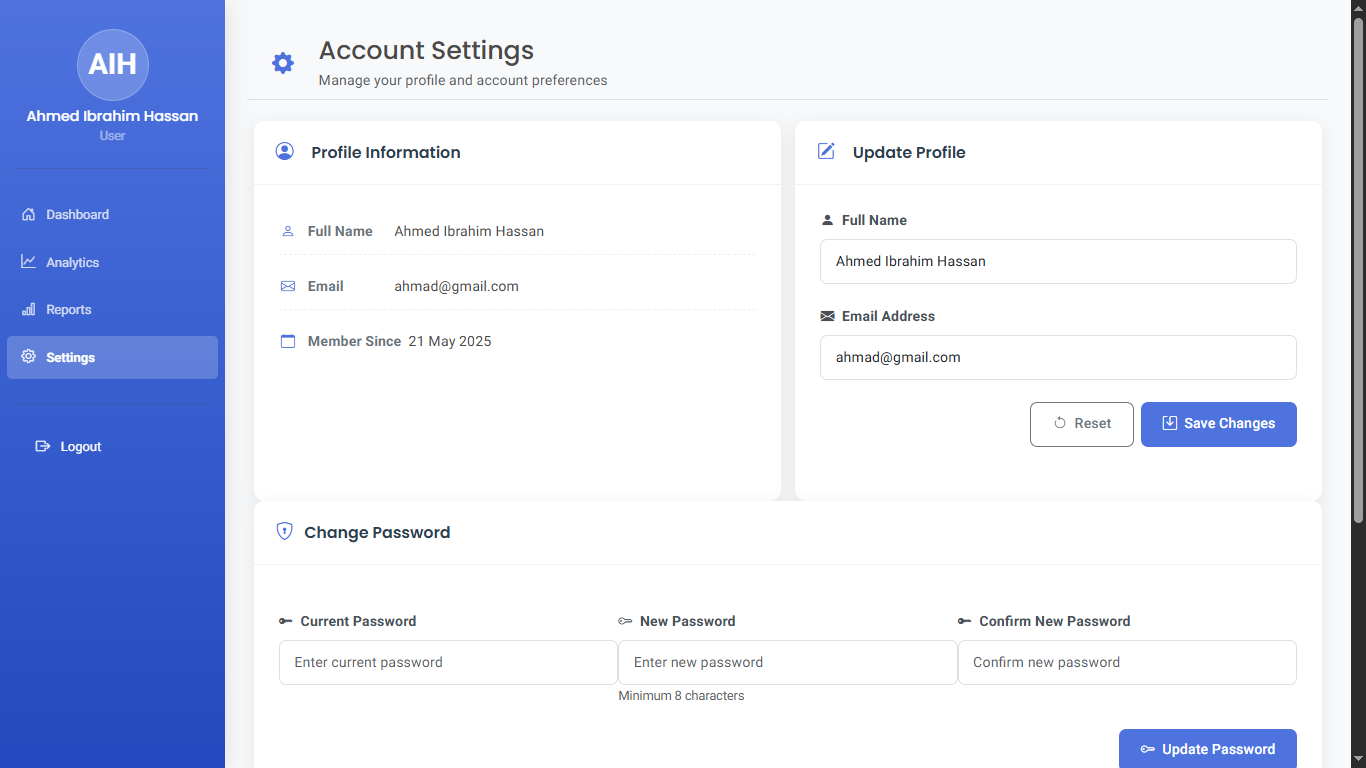
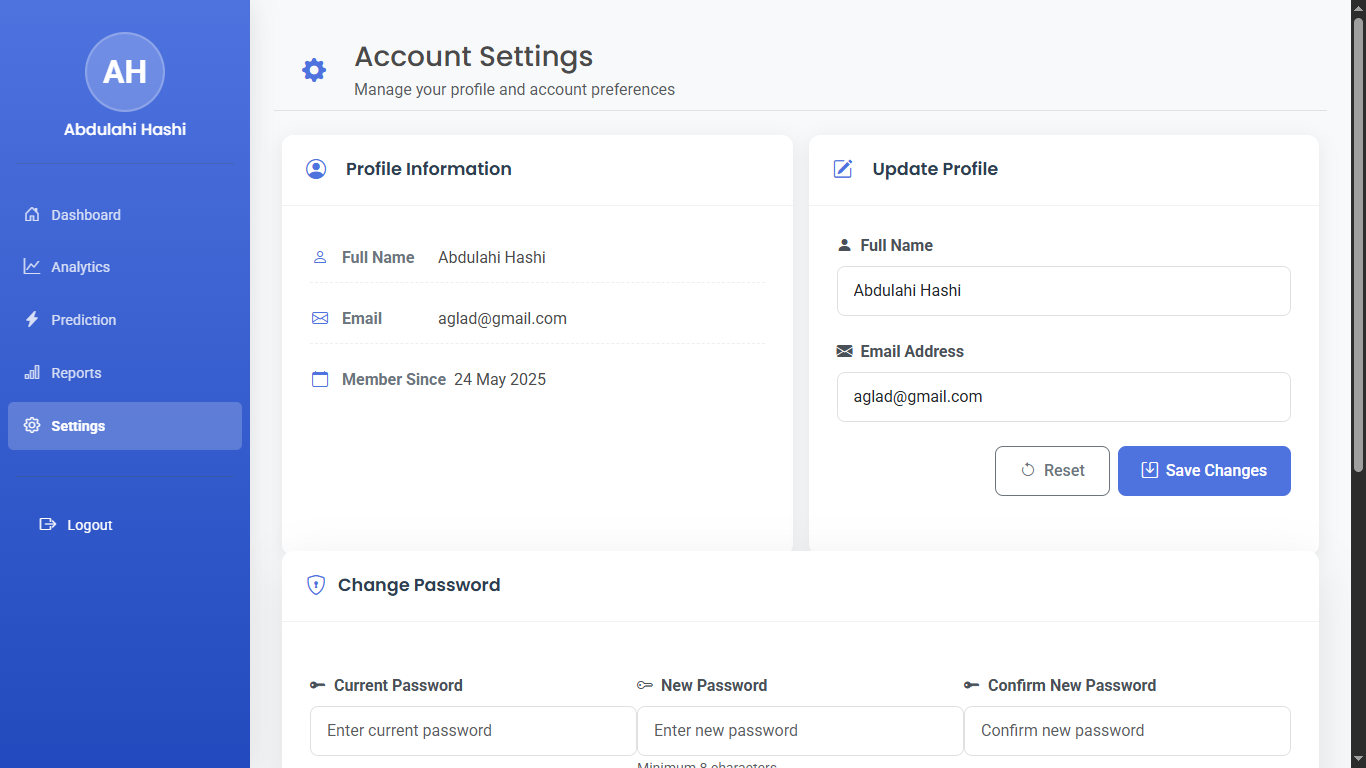
Remove 'user' label and update screenshots

diff --git a/frontend/public/analytics.html b/frontend/public/analytics.html
@@ -120,8 +120,7 @@
           <div class="position-sticky">
             <div class="text-center mb-4">
               <div id="userInitials" class="initials-circle"></div>
-              <h6 id="userName" class="mb-0"></h6>
-              <small id="userRole" class="text-muted">User</small>
+              <h6 id="userName" class="mb-0"></h6>              
             </div>
             <ul class="nav flex-column">
               <li class="nav-item">
